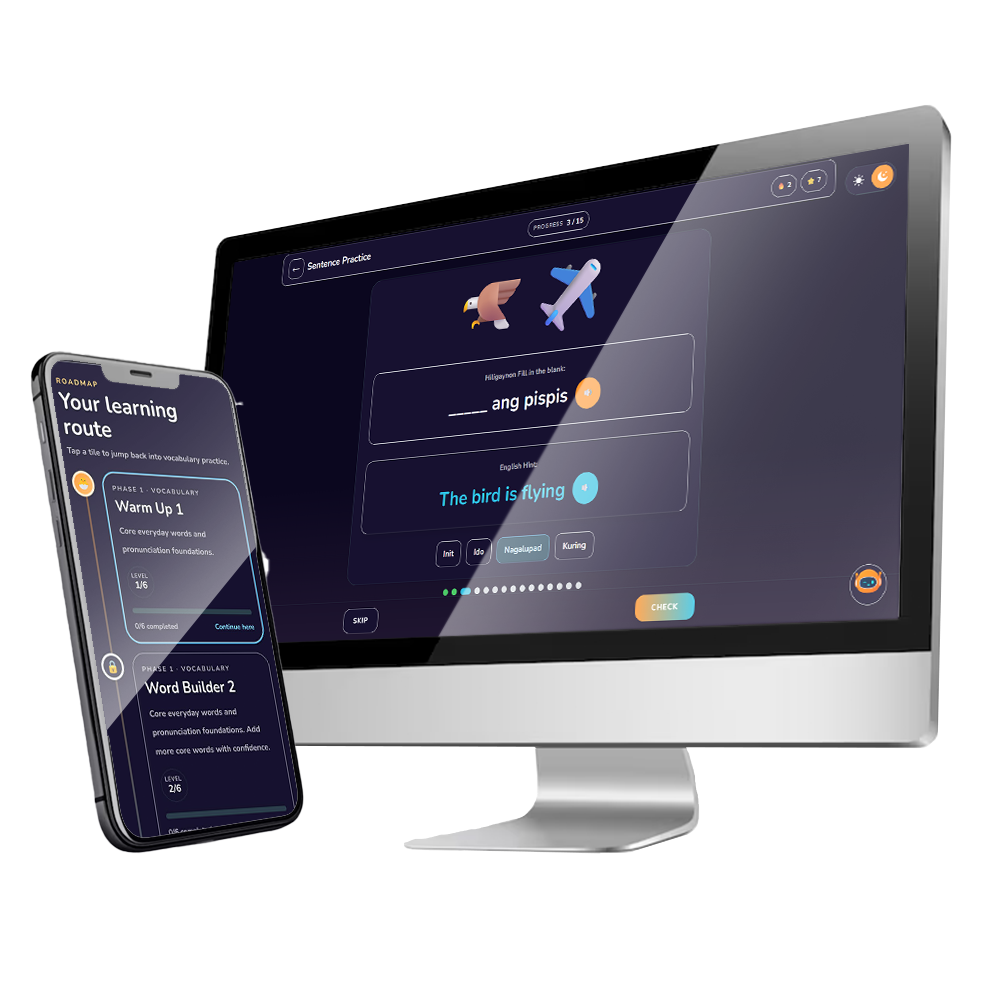
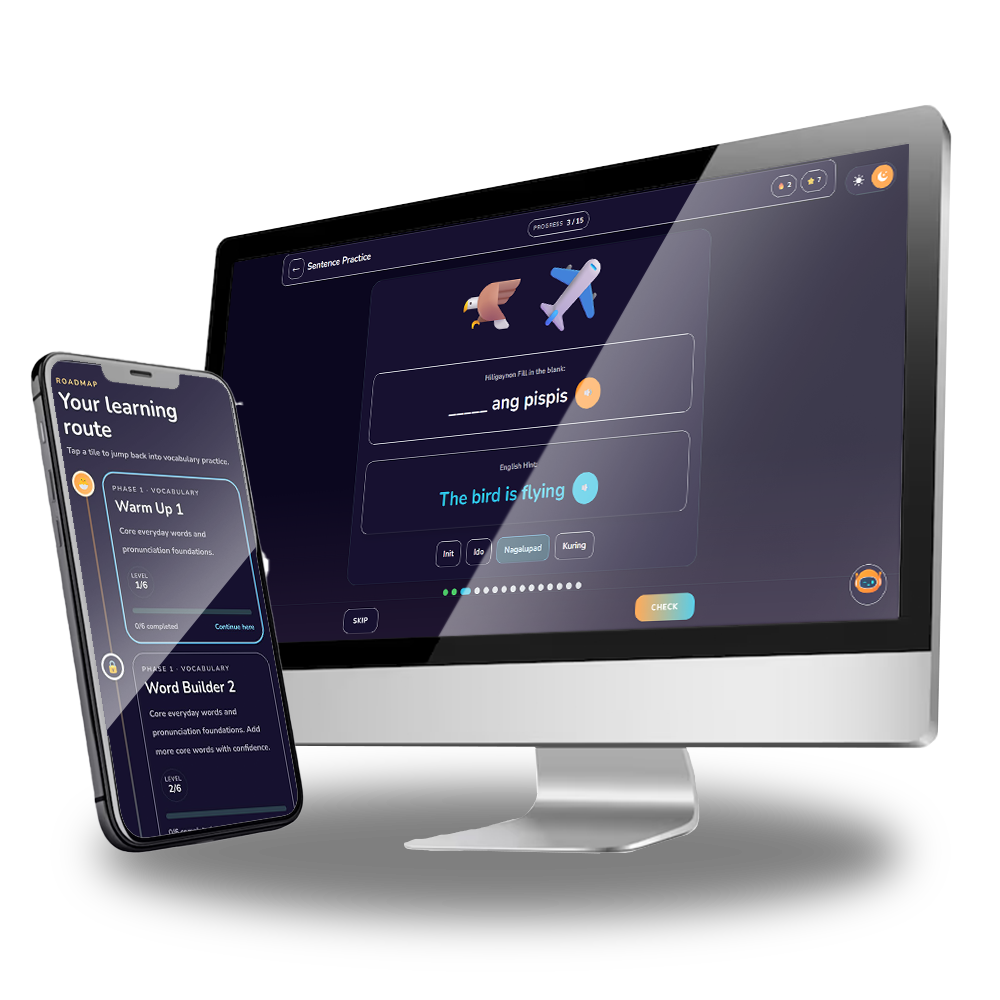
Finalized Phonix page

Changed region(s): [[0.093, 0.744, 0.93, 0.961]]

diff --git a/src/projectsPage/Projects/Phonix.tsx b/src/projectsPage/Projects/Phonix.tsx
@@ -1,5 +1,7 @@
 import "./Phonix.css"
 
+import GithubIcon from "../.././assets/github.png"
+import WebsiteIcon from "../.././assets/Website.png"
 import PhonixShowcase from "../.././assets/PhonixShowcase.png"
 
 export default function phonixPage() {
@@ -9,8 +11,21 @@ export default function phonixPage() {
       
       {/*Header*/}
       <div className = "phonixHeader">
+
+        {/*Header Text*/}
         <p className = "phonixHeaderTitleFont"> phonix </p>
 	<p className = "phonixHeaderSubtextFont">learning beyond language barriers</p>
+	
+	{/*Buttons*/}
+	<div className = "phonixHeaderButtonWrapper">
+	  <a href = "https://github.com/dslvd/phonix-dev"  target = "_blank">
+	    <img className = "phonixHeaderButton" src = {GithubIcon}/>
+          </a>
+
+	  <a href = "https://phonix.page/" target = "_blank">
+	    <img className = "phonixHeaderButton" src = {WebsiteIcon}/>
+	  </a>
+	</div>
       </div>
 
       {/*Content*/}
@@ -20,19 +35,19 @@ export default function phonixPage() {
 
 	<div className = "phonixDescription">
 
-
+	 {/*Description Text*/}
 	  <p className = "phonixDescriptionText">
+	    <span className = "phonixDescriptionTitle">
+	      What is Phonix?
+	    </span>
+            <br/>
 
-	  <span className = "phonixDescriptionTitle">
-	  What is Phonix?
-	  </span>
-          <br/>
-	  Phonix is an AI-Based Translation & Language Learning WebApp that we built as a team for our SE-1243 class in my freshman year.
+	    Phonix is an AI-Based Translation & Language Learning WebApp that we built as a team for our SE-1243 class in my freshman year.
+	  </p>
+	  <p className = "phonixDescriptionText">
+            I primarily worked on frontend code, UI design, art design, branding, and refactoring and cleaning up old AI generated code.
 	  </p>
 
-	  <p className = "phonixDescriptionText">
-          I primarily worked on frontend code, UI design, art design, branding, and refactoring and cleaning up old AI generated code.
-	  </p>
 	</div>
       </div>
 

diff --git a/src/projectsPage/Projects/Phonix.css b/src/projectsPage/Projects/Phonix.css
@@ -37,6 +37,19 @@
   color: rgba(255,255,255,1);
 }
 
+.phonixHeaderButtonWrapper {
+  margin-left: auto;
+  display: flex;
+  flex-direction: row;
+  gap: 10px;
+}
+
+.phonixHeaderButton {
+  background: rgba(0,0,0,0);
+  height: 40px;
+  width: 40px;
+}
+
 /*Content Classes*/
 .phonixContent {
   flex: 1;